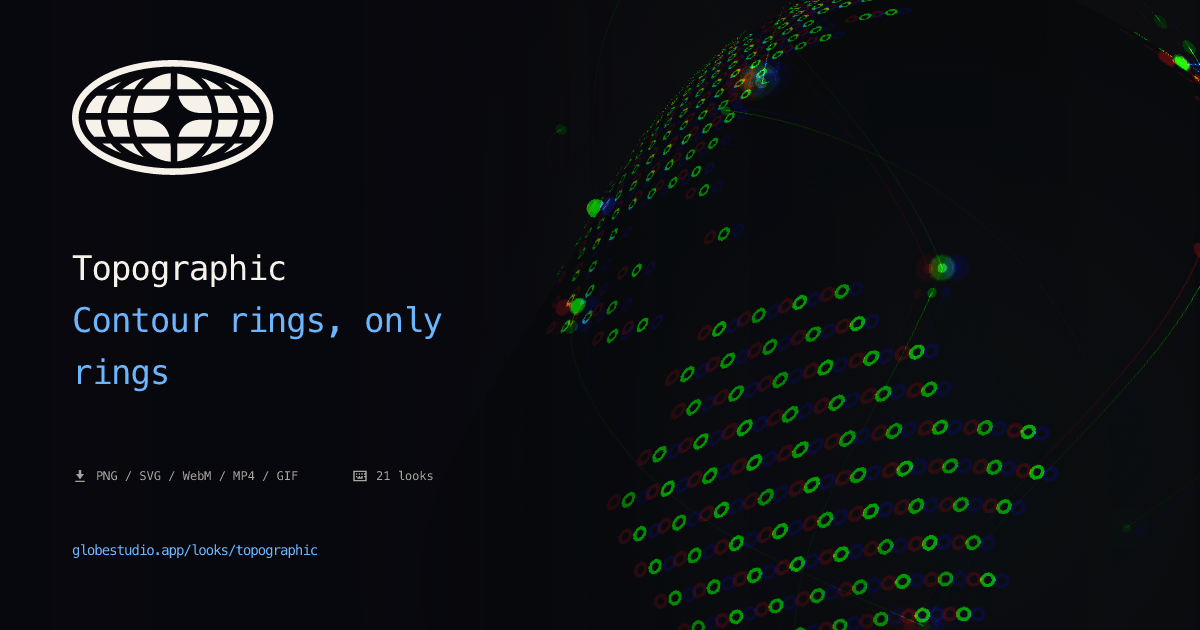
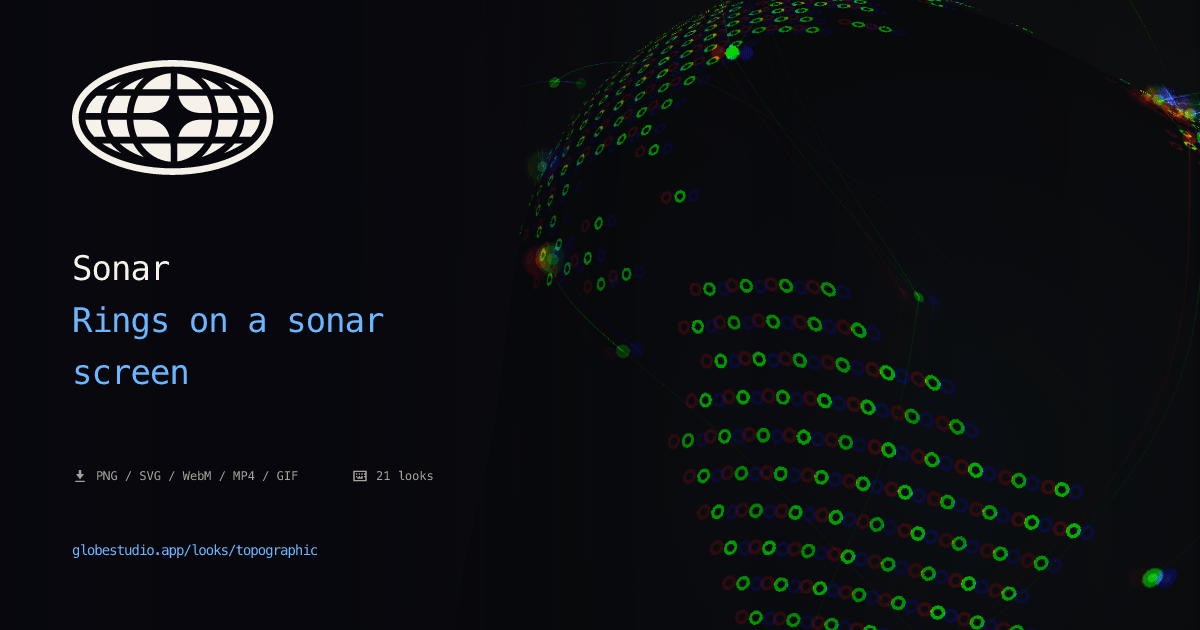
fix(looks): call Topographic Sonar, which is what it looks like
The look draws ring dots in green on a near black screen and bends them
with the wave shader, so it reads as a sonar or radar display, not as
contour lines. The name, blurb, page text, search tags, share card, MCP
listing, docs and examples now say Sonar. The id stays topographic, so
/looks/topographic, embeds, share links and the packages keep working.

diff --git a/src/data/preset-seo.js b/src/data/preset-seo.js
@@ -259,15 +259,15 @@ export const presetSeo = {
     ],
   },
   topographic: {
-    targetKeyword: "topographic dotted map generator",
+    targetKeyword: "sonar dotted globe",
     metaDescription:
-      "Topographic dotted globe: warped contour-line cartography in sage on a deep teal ground. Hiking-map aesthetic, exportable to PNG and SVG.",
+      "Sonar dotted globe: ring-shaped dots in phosphor green on a near-black screen, bent into waves with a red and blue fringe. Export PNG, SVG, WebM, MP4 or GIF.",
     longDescription:
-      "Topographic uses the wave-distortion shader to push the dot field into rolling concentric ridges, like the contour lines on a USGS hiking map: sage-green dots on a deep teal-black ground, with enough distortion to read as terrain and little enough to keep the geographic shapes legible. Use it for outdoor brands, hiking and adventure publications, or climate-data stories, where the globe should look like a relief map. warp sets how dramatic the contours are, and motion controls the animation speed if you want the ridges to drift.",
+      "Sonar draws every dot as a ring and runs the wave shader over the globe, so the rings ripple like the blips on a sonar or radar screen, with the red and blue channels pulled off to each side. The background stays near black, so the green reads like an old phosphor display. Use it for security and monitoring products, tracking and signal stories, or sci-fi interfaces. warp sets how far the rings bend, split sets the color fringe, and motion sets how fast the waves move.",
     useCases: [
-      "Outdoor / hiking / adventure brand systems",
-      "Climate and earth-science data storytelling",
-      "Wilderness photography portfolios and editorial",
+      "Security, monitoring and network product launches",
+      "Maritime, aviation and tracking data stories",
+      "Sci-fi interfaces and game backgrounds",
     ],
   },
 };

diff --git a/packages/mcp/src/server.ts b/packages/mcp/src/server.ts
@@ -63,7 +63,7 @@ const PRESETS = [
   { id: "toon", name: "Toon", blurb: "Flat cel-shaded comic colors", tags: ["cartoon", "comic", "flat", "anime", "bold"] },
   { id: "threshold", name: "Threshold", blurb: "Hard high-contrast B&W", tags: ["monochrome", "contrast", "bold", "minimal", "noir"] },
   { id: "vapor", name: "Vapor", blurb: "Synthwave purple-pink gradient", tags: ["synthwave", "vaporwave", "80s", "retro", "neon", "purple", "pink"] },
-  { id: "topographic", name: "Topographic", blurb: "Contour-line elevation map", tags: ["contour", "map", "cartography", "elevation", "lines"] },
+  { id: "topographic", name: "Sonar", blurb: "Rings rippling on a sonar screen", tags: ["sonar", "radar", "rings", "signal", "green"] },
 ];
 
 /**

diff --git a/src/data/preset-tags.js b/src/data/preset-tags.js
@@ -32,5 +32,5 @@ export const presetTags = {
   toon: ["cartoon", "cel-shaded", "pop-art", "bold", "comic", "illustration"],
   threshold: ["binary", "two-tone", "minimal", "editorial", "contrast", "stark", "poster"],
   vapor: ["synthwave", "vaporwave", "retro", "neon", "pastel", "80s", "miami"],
-  topographic: ["map", "contour", "terrain", "hiking", "nature", "outdoor", "earth"],
+  topographic: ["sonar", "radar", "rings", "signal", "green", "tech", "scifi"],
 };

diff --git a/examples/shader-presets-showcase/index.html b/examples/shader-presets-showcase/index.html
@@ -134,7 +134,7 @@
         { id: "toon", name: "Toon", desc: "Cel-shaded pop art" },
         { id: "threshold", name: "Threshold", desc: "Two-tone binary" },
         { id: "vapor", name: "Vapor", desc: "Synthwave horizon" },
-        { id: "topographic", name: "Topographic", desc: "Contour rings" },
+        { id: "topographic", name: "Sonar", desc: "Rings on a sonar screen" },
       ];
 
       const grid = document.getElementById("grid");

diff --git a/wordpress-plugin/globestudio/src/block/index.js b/wordpress-plugin/globestudio/src/block/index.js
@@ -40,7 +40,7 @@
     { value: "toon", label: "Toon — cel-shaded" },
     { value: "threshold", label: "Threshold — high-contrast B&W" },
     { value: "vapor", label: "Vapor — synthwave" },
-    { value: "topographic", label: "Topographic — contour lines" },
+    { value: "topographic", label: "Sonar — rings on a sonar screen" },
   ];
 
   registerBlockType("globestudio/embed", {

diff --git a/src/data/look-presets.js b/src/data/look-presets.js
@@ -385,8 +385,8 @@ export const lookPresets = [
   },
   {
     id: "topographic",
-    name: "Topographic",
-    blurb: "Contour rings, only rings",
+    name: "Sonar",
+    blurb: "Rings on a sonar screen",
     settings: merge({
       background: "#0f1419",
       density: 70,

diff --git a/examples/framer-component/GlobestudioGlobe.tsx b/examples/framer-component/GlobestudioGlobe.tsx
@@ -164,7 +164,7 @@ addPropertyControls(GlobestudioGlobe, {
       "Toon",
       "Threshold",
       "Vapor",
-      "Topographic",
+      "Sonar",
     ],
   },
   selection: {

diff --git a/README.md b/README.md
@@ -37,7 +37,7 @@ The studio runs in your browser, and the code is MIT licensed.
   PNG, JPEG or WebP.
 - 21 looks: Default plus 20 shader looks (Halftone, Risograph, Newsprint,
   Aurora, Pixel, Bayer, Atkinson, Wireframe, CRT, Glitch, Bad TV, Bloom,
-  Metal, Iridescent, Pencil, Corrupt, Toon, Threshold, Vapor, Topographic).
+  Metal, Iridescent, Pencil, Corrupt, Toon, Threshold, Vapor, Sonar).
   Each look is a one-click preset that sets the background, density, dot
   size and globe chrome, applies at most one shader pass, and has its own
   URL at `/looks/:id`. You can change the shape, colors and region after

diff --git a/ROADMAP.md b/ROADMAP.md
@@ -38,7 +38,7 @@ The version on `main` already does all of this.
 
 - 21 looks: Default, Halftone, Risograph, Newsprint, Aurora, Pixel,
   Bayer, Atkinson, Wireframe, CRT, Glitch, Bad TV, Bloom, Metal, Iridescent,
-  Pencil, Corrupt, Toon, Threshold, Vapor, Topographic
+  Pencil, Corrupt, Toon, Threshold, Vapor, Sonar
 - 24 WebGL shader effects behind them, at most one per look
 - A page and share card per look at `/looks/:id`, and a `/gallery` of all 21
 

diff --git a/examples/framer-component/README.md b/examples/framer-component/README.md
@@ -26,7 +26,7 @@ Open your Framer project, then:
 
 The component panel on the right shows:
 
-- **Look**: all 21 preset options (Default, Halftone, Bayer, Iridescent, Aurora, Vapor, Topographic, etc.)
+- **Look**: all 21 preset options (Default, Halftone, Bayer, Iridescent, Aurora, Vapor, Sonar, etc.)
 - **Region** — string field for `world`, `country:USA`, `continent:Europe`, etc.
 - **Render mode** — dots vs solid
 - **Density** — 10–90 slider

diff --git a/CHANGELOG.md b/CHANGELOG.md
@@ -29,6 +29,8 @@ All notable changes to Globestudio are tracked here. Format follows
   share links are unchanged.
 - Bad TV's static is about a third as strong, so the map shows through it.
   It used to cover the whole globe.
+- Topographic is now called Sonar, which is what it looks like. Its address
+  stays /looks/topographic, so links and embeds keep working.
 
 ## [1.0.0] - 2026-09-28
 
